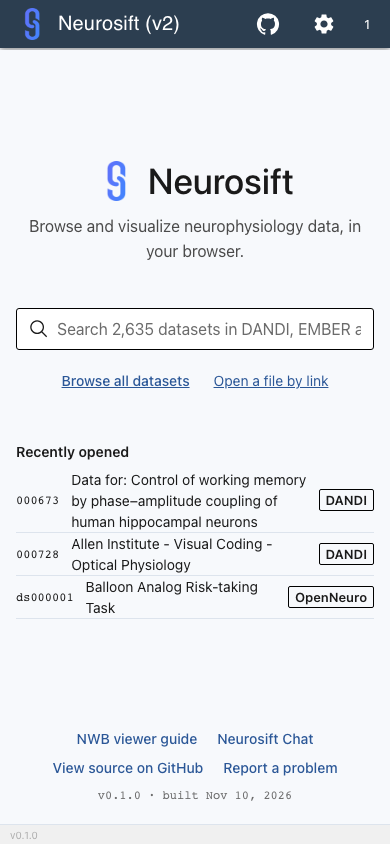
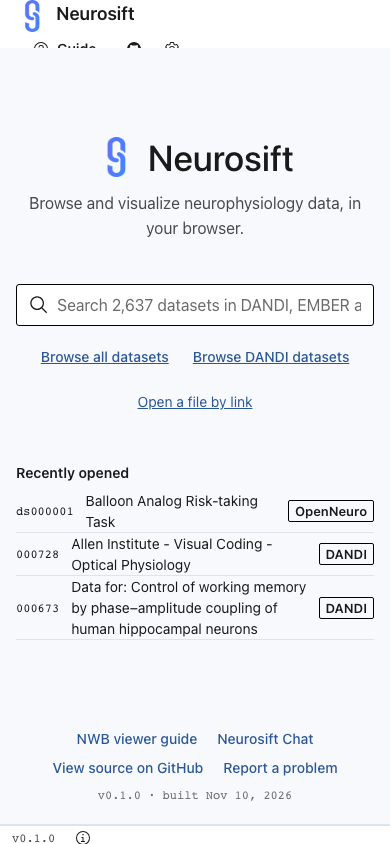
Home: add Browse DANDI datasets (#145)
* Browse starts on DANDI, and Newest asks DANDI for the newest Dandisets (#144)

* Keep Browse all datasets and add Browse DANDI datasets beside it (#144)

diff --git a/src/pages/SearchPage/archiveSources.ts b/src/pages/SearchPage/archiveSources.ts
@@ -74,6 +74,10 @@ export function openNeuroItem(d: OpenNeuroDataset): CatalogItem {
   };
 }
 
+/** DANDI's API ignores ordering=-created; Dandiset IDs rise with creation, so -id is newest first. */
+export const dandiOrdering = (order: Order) =>
+  order === "newest" ? "-id" : "-modified";
+
 /** DANDI or EMBER text search, a page of 25 at a time. */
 export function dandiSearch(
   archive: "DANDI" | "EMBER",
@@ -93,7 +97,7 @@ export function dandiSearch(
           embargoed: apiKeyProvided,
           pageSize: PAGE,
           page,
-          ordering: order === "newest" ? "-created" : "-modified",
+          ordering: dandiOrdering(order),
         }),
         { headers },
       );

diff --git a/src/pages/SearchPage/archiveSources.test.ts b/src/pages/SearchPage/archiveSources.test.ts
@@ -1,0 +1,13 @@
+import { describe, expect, it } from "vitest";
+import { dandiOrdering } from "./archiveSources";
+
+describe("dandiOrdering", () => {
+  it("asks DANDI for the newest Dandisets by ID", () => {
+    expect(dandiOrdering("newest")).toBe("-id");
+  });
+
+  it("keeps recently modified and best match on -modified", () => {
+    expect(dandiOrdering("modified")).toBe("-modified");
+    expect(dandiOrdering("best")).toBe("-modified");
+  });
+});

diff --git a/src/pages/HomePage/HomePage.tsx b/src/pages/HomePage/HomePage.tsx
@@ -152,6 +152,9 @@ const HomePage: FunctionComponent<HomePageProps> = () => {
         ) : (
           <p className="home-links">
             <a href={`${base}search?sort=newest`}>Browse all datasets</a>
+            <a href={`${base}search?archive=dandi&sort=newest`}>
+              Browse DANDI datasets
+            </a>
             <button
               type="button"
               className="home-link-button"

diff --git a/src/pages/util/dandisetsSearchUrl.ts b/src/pages/util/dandisetsSearchUrl.ts
@@ -7,7 +7,7 @@ export const buildDandisetsSearchUrl = (o: {
   embargoed: boolean;
   pageSize?: number;
   page?: number;
-  ordering?: "-modified" | "-created";
+  ordering?: "-modified" | "-id";
 }): string => {
   const params = new URLSearchParams({
     page: String(o.page ?? 1),
